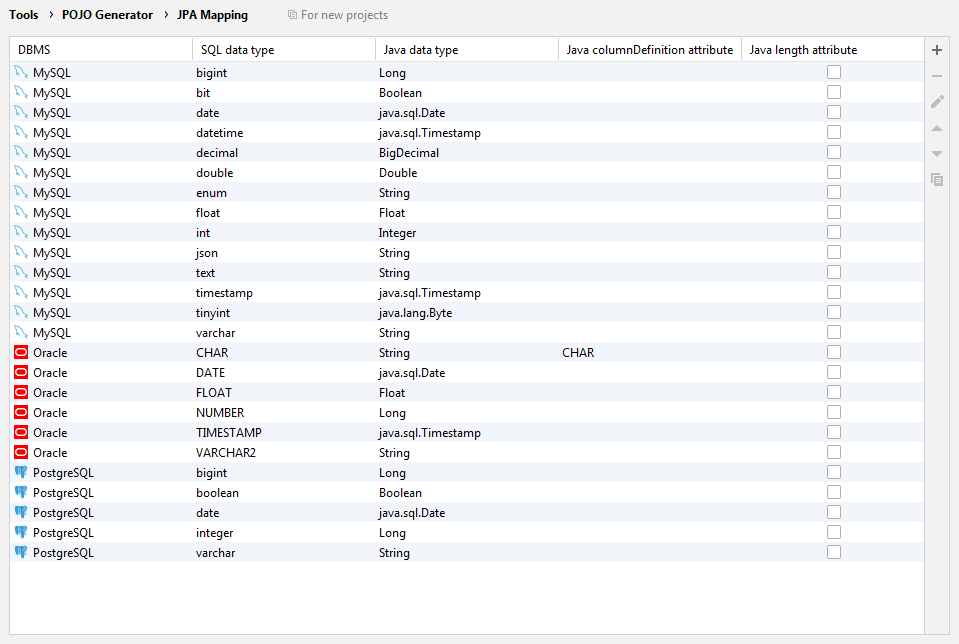
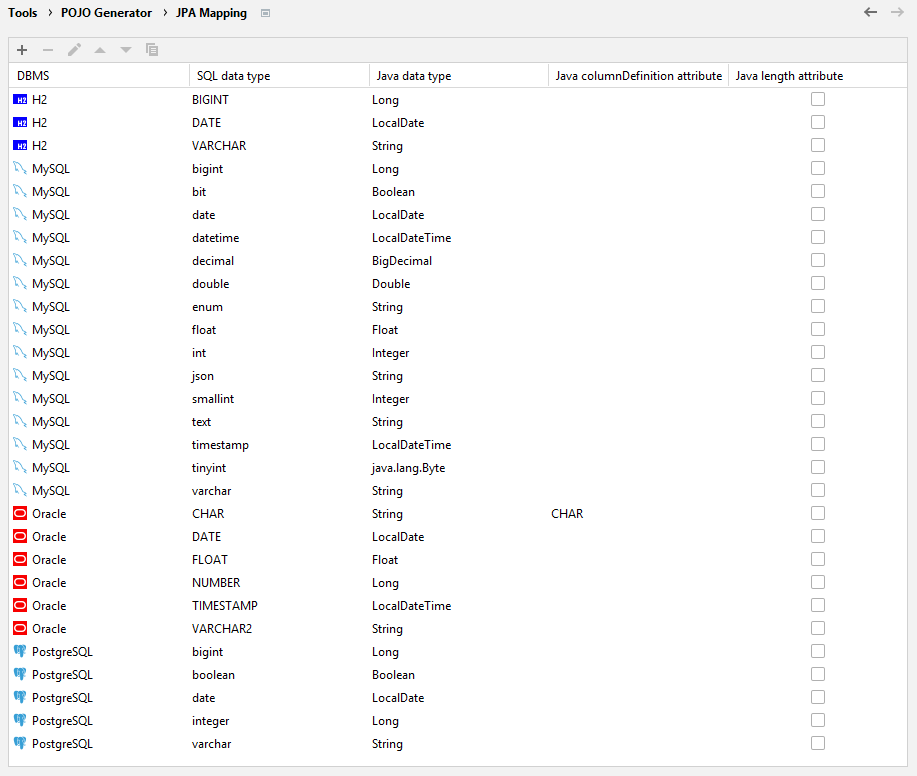
[GitHub] #26: IDEA 2023.1: java.lang.NoClassDefFoundError: com/twelvemonkeys/util/LinkedSet

diff --git a/pojo-generator/src/main/java/fr/jukien/intellij/plugins/util/Util.java b/pojo-generator/src/main/java/fr/jukien/intellij/plugins/util/Util.java
@@ -28,7 +28,6 @@ import com.intellij.psi.PsiFileFactory;
 import com.intellij.psi.codeStyle.NameUtil;
 import com.intellij.psi.impl.file.PsiDirectoryFactory;
 import com.intellij.vcsUtil.VcsUtil;
-import com.twelvemonkeys.util.LinkedSet;
 import fr.jukien.intellij.plugins.ui.ConfigurableJPAMapping;
 import fr.jukien.intellij.plugins.ui.DBMSFamily;
 import fr.jukien.intellij.plugins.ui.JPAMappingSettings;
@@ -36,6 +35,7 @@ import fr.jukien.intellij.plugins.ui.POJOGeneratorSettings;
 import org.jetbrains.annotations.NotNull;
 
 import java.util.HashSet;
+import java.util.LinkedHashSet;
 import java.util.List;
 import java.util.Set;
 
@@ -45,14 +45,14 @@ import static fr.jukien.intellij.plugins.ui.DBMSFamily.POSTGRES;
  * Created on 25/04/2019
  *
  * @author JDI
- * @version 2.3.0
+ * @version 2.4.0
  * @since 1.0.0
  */
 public class Util {
     public static VirtualFile lastChoosedFile;
 
-    public static LinkedSet<Field> getFields(DbTable dbTable, JPAMappingSettings jpaMappingSettings) {
-        LinkedSet<Field> fields = new LinkedSet<>();
+    public static LinkedHashSet<Field> getFields(DbTable dbTable, JPAMappingSettings jpaMappingSettings) {
+        LinkedHashSet<Field> fields = new LinkedHashSet<>();
         List<ConfigurableJPAMapping> jpaMappings = jpaMappingSettings.getJpaMappings();
         for (DasColumn column : DasUtil.getColumns(dbTable)) {
             Field field = new Field();
@@ -64,11 +64,11 @@ public class Util {
             } else {
                 field.setAutoGenerated(DasUtil.isAutoGenerated(column));
             }
-            field.setSQLType(column.getDataType());
+            field.setSQLType(column.getDasType().toDataType());
 
             ConfigurableJPAMapping configurableJPAMapping = jpaMappings.stream()
                     .filter(c -> dbTable.getDataSource().getDatabaseVersion().name.equals(c.getFamily().getName()) &&
-                            column.getDataType().typeName.equals(c.getSqlDataType()))
+                            column.getDasType().toDataType().typeName.equals(c.getSqlDataType()))
                     .findAny()
                     .orElse(null);
 
@@ -76,7 +76,7 @@ public class Util {
                 field.setJavaType(configurableJPAMapping.getJavaDataType());
                 field.setColumnDefinition(configurableJPAMapping.getJavaColumnDefinition());
                 if (null != configurableJPAMapping.isLengthAttributeEnabled() && configurableJPAMapping.isLengthAttributeEnabled()) {
-                    field.setLength(column.getDataType().size);
+                    field.setLength(column.getDasType().toDataType().size);
                 }
             } else {
                 field.setJavaType(null);
@@ -99,7 +99,7 @@ public class Util {
         return fields;
     }
 
-    public static void addConstructor(String className, LinkedSet<Field> fields, StringBuilder javaTextFile) {
+    public static void addConstructor(String className, LinkedHashSet<Field> fields, StringBuilder javaTextFile) {
         StringBuilder fieldsToInitialize = new StringBuilder();
         StringBuilder fieldsToInitializeAssignment = new StringBuilder();
         javaTextFile.append("    public ").append(className).append("(");
@@ -123,7 +123,7 @@ public class Util {
         javaTextFile.append("    }").append("\n");
     }
 
-    public static void addGetterSetter(LinkedSet<Field> fields, StringBuilder javaTextFile) {
+    public static void addGetterSetter(LinkedHashSet<Field> fields, StringBuilder javaTextFile) {
         int index = 0;
         for (Field field : fields) {
             javaTextFile.append("    public ").append(field.getJavaType()).append(" get").append(javaName(field.getName(), true)).append("() {").append("\n");
@@ -243,7 +243,7 @@ public class Util {
 
             WriteCommandAction.runWriteCommandAction(project, r);
         } else if (!pojoGeneratorSettings.getAlwaysShowDifferencesBetweenFiles()) {
-            Notification notification = new Notification("POJO Generator", "POJO Generator", String.format("The file [%s] already exists", fileName), NotificationType.WARNING, null);
+            Notification notification = new Notification("POJO Generator", "POJO Generator", String.format("The file [%s] already exists", fileName), NotificationType.WARNING);
             notification.addAction(NotificationAction.createSimple("Show Diff...", () -> {
                 notification.expire();
 

diff --git a/pojo-generator/src/main/java/fr/jukien/intellij/plugins/action/Entity.java b/pojo-generator/src/main/java/fr/jukien/intellij/plugins/action/Entity.java
@@ -4,7 +4,6 @@ import com.intellij.database.psi.DbTable;
 import com.intellij.openapi.actionSystem.AnAction;
 import com.intellij.openapi.actionSystem.AnActionEvent;
 import com.intellij.openapi.actionSystem.LangDataKeys;
-import com.intellij.openapi.components.ServiceManager;
 import com.intellij.openapi.fileChooser.FileChooser;
 import com.intellij.openapi.fileChooser.FileChooserDescriptor;
 import com.intellij.openapi.fileChooser.FileChooserDescriptorFactory;
@@ -12,7 +11,6 @@ import com.intellij.openapi.project.Project;
 import com.intellij.openapi.vfs.VfsUtil;
 import com.intellij.openapi.vfs.VirtualFile;
 import com.intellij.psi.PsiElement;
-import com.twelvemonkeys.util.LinkedSet;
 import fr.jukien.intellij.plugins.ui.JPAMappingSettings;
 import fr.jukien.intellij.plugins.ui.POJOGeneratorSettings;
 import fr.jukien.intellij.plugins.util.Field;
@@ -23,6 +21,7 @@ import org.jetbrains.annotations.NotNull;
 import java.net.MalformedURLException;
 import java.nio.file.Path;
 import java.nio.file.Paths;
+import java.util.LinkedHashSet;
 
 import static fr.jukien.intellij.plugins.util.Util.*;
 
@@ -30,7 +29,7 @@ import static fr.jukien.intellij.plugins.util.Util.*;
  * Created on 19/04/2019
  *
  * @author JDI
- * @version 2.3.0
+ * @version 2.4.0
  * @since 1.0.0
  */
 public class Entity extends AnAction {
@@ -43,8 +42,8 @@ public class Entity extends AnAction {
             return;
         }
 
-        final POJOGeneratorSettings pojoGeneratorSettings = ServiceManager.getService(project, POJOGeneratorSettings.class);
-        final JPAMappingSettings jpaMappingSettings = ServiceManager.getService(project, JPAMappingSettings.class);
+        final POJOGeneratorSettings pojoGeneratorSettings = project.getService(POJOGeneratorSettings.class);
+        final JPAMappingSettings jpaMappingSettings = project.getService(JPAMappingSettings.class);
 
         PsiElement[] psiElements = anActionEvent.getData(LangDataKeys.PSI_ELEMENT_ARRAY);
         if (psiElements == null || psiElements.length == 0) {
@@ -80,7 +79,7 @@ public class Entity extends AnAction {
                 }
 
                 TableInfo tableInfo = new TableInfo((DbTable) psiElement);
-                LinkedSet<Field> fields = getFields((DbTable) psiElement, jpaMappingSettings);
+                LinkedHashSet<Field> fields = getFields((DbTable) psiElement, jpaMappingSettings);
 
                 String classNameComposite = null;
                 if (isCompositePrimaryKeyAvailable(pojoGeneratorSettings, tableInfo)) {
@@ -100,7 +99,7 @@ public class Entity extends AnAction {
                     }
                     javaTextFile.append("public class ").append(classNameComposite).append(" implements Serializable {").append("\n");
 
-                    LinkedSet<Field> primaryFields = new LinkedSet<>();
+                    LinkedHashSet<Field> primaryFields = new LinkedHashSet<>();
                     int index = 0;
                     for (Field field : fields) {
                         if (field.getPrimary()) {
@@ -135,7 +134,7 @@ public class Entity extends AnAction {
                     }
 
                     javaTextFile.append("\n");
-                    addConstructor(classNameComposite, new LinkedSet<>(), javaTextFile);
+                    addConstructor(classNameComposite, new LinkedHashSet<>(), javaTextFile);
                     javaTextFile.append("\n");
                     addConstructor(classNameComposite, primaryFields, javaTextFile);
                     javaTextFile.append("\n");
@@ -158,7 +157,7 @@ public class Entity extends AnAction {
                     javaTextFile.append("@IdClass(").append(classNameComposite).append(".class)").append("\n");
                 }
                 if (isCompositePrimaryKeyAvailable(pojoGeneratorSettings, tableInfo) && pojoGeneratorSettings.getGenerateCompositePrimaryKeyWithEmbeddedIdAnnotation()) {
-                    LinkedSet<Field> fieldsWithoutPrimary = new LinkedSet<>();
+                    LinkedHashSet<Field> fieldsWithoutPrimary = new LinkedHashSet<>();
 
                     Field field = new Field();
                     field.setEmbeddedId(true);

diff --git a/pojo-generator/src/main/java/fr/jukien/intellij/plugins/ui/JPAMappingSettings.java b/pojo-generator/src/main/java/fr/jukien/intellij/plugins/ui/JPAMappingSettings.java
@@ -16,7 +16,7 @@ import java.util.UUID;
  * Created on 24/08/2019
  *
  * @author JDI
- * @version 2.3.0
+ * @version 2.4.0
  * @since 2.0.0
  */
 @State(
@@ -30,12 +30,12 @@ public class JPAMappingSettings implements PersistentStateComponent<JPAMappingSe
     public static List<ConfigurableJPAMapping> getPredefinedJPAMappings() {
         return Arrays.asList(
                 new ConfigurableJPAMapping(UUID.randomUUID(), DBMSFamily.H2, "BIGINT", "Long"),
-                new ConfigurableJPAMapping(UUID.randomUUID(), DBMSFamily.H2, "DATE", "java.sql.Date"),
+                new ConfigurableJPAMapping(UUID.randomUUID(), DBMSFamily.H2, "DATE", "LocalDate"),
                 new ConfigurableJPAMapping(UUID.randomUUID(), DBMSFamily.H2, "VARCHAR", "String"),
                 new ConfigurableJPAMapping(UUID.randomUUID(), DBMSFamily.MYSQL, "bigint", "Long"),
                 new ConfigurableJPAMapping(UUID.randomUUID(), DBMSFamily.MYSQL, "bit", "Boolean"),
-                new ConfigurableJPAMapping(UUID.randomUUID(), DBMSFamily.MYSQL, "date", "java.sql.Date"),
-                new ConfigurableJPAMapping(UUID.randomUUID(), DBMSFamily.MYSQL, "datetime", "java.sql.Timestamp"),
+                new ConfigurableJPAMapping(UUID.randomUUID(), DBMSFamily.MYSQL, "date", "LocalDate"),
+                new ConfigurableJPAMapping(UUID.randomUUID(), DBMSFamily.MYSQL, "datetime", "LocalDateTime"),
                 new ConfigurableJPAMapping(UUID.randomUUID(), DBMSFamily.MYSQL, "decimal", "BigDecimal"),
                 new ConfigurableJPAMapping(UUID.randomUUID(), DBMSFamily.MYSQL, "double", "Double"),
                 new ConfigurableJPAMapping(UUID.randomUUID(), DBMSFamily.MYSQL, "enum", "String"),
@@ -44,18 +44,18 @@ public class JPAMappingSettings implements PersistentStateComponent<JPAMappingSe
                 new ConfigurableJPAMapping(UUID.randomUUID(), DBMSFamily.MYSQL, "json", "String"),
                 new ConfigurableJPAMapping(UUID.randomUUID(), DBMSFamily.MYSQL, "smallint", "Integer"),
                 new ConfigurableJPAMapping(UUID.randomUUID(), DBMSFamily.MYSQL, "text", "String"),
-                new ConfigurableJPAMapping(UUID.randomUUID(), DBMSFamily.MYSQL, "timestamp", "java.sql.Timestamp"),
+                new ConfigurableJPAMapping(UUID.randomUUID(), DBMSFamily.MYSQL, "timestamp", "LocalDateTime"),
                 new ConfigurableJPAMapping(UUID.randomUUID(), DBMSFamily.MYSQL, "tinyint", "java.lang.Byte"),
                 new ConfigurableJPAMapping(UUID.randomUUID(), DBMSFamily.MYSQL, "varchar", "String"),
                 new ConfigurableJPAMapping(UUID.randomUUID(), DBMSFamily.ORACLE, "CHAR", "String", "CHAR"),
-                new ConfigurableJPAMapping(UUID.randomUUID(), DBMSFamily.ORACLE, "DATE", "java.sql.Date"),
+                new ConfigurableJPAMapping(UUID.randomUUID(), DBMSFamily.ORACLE, "DATE", "LocalDate"),
                 new ConfigurableJPAMapping(UUID.randomUUID(), DBMSFamily.ORACLE, "FLOAT", "Float"),
                 new ConfigurableJPAMapping(UUID.randomUUID(), DBMSFamily.ORACLE, "NUMBER", "Long"),
-                new ConfigurableJPAMapping(UUID.randomUUID(), DBMSFamily.ORACLE, "TIMESTAMP", "java.sql.Timestamp"),
+                new ConfigurableJPAMapping(UUID.randomUUID(), DBMSFamily.ORACLE, "TIMESTAMP", "LocalDateTime"),
                 new ConfigurableJPAMapping(UUID.randomUUID(), DBMSFamily.ORACLE, "VARCHAR2", "String"),
                 new ConfigurableJPAMapping(UUID.randomUUID(), DBMSFamily.POSTGRES, "bigint", "Long"),
                 new ConfigurableJPAMapping(UUID.randomUUID(), DBMSFamily.POSTGRES, "boolean", "Boolean"),
-                new ConfigurableJPAMapping(UUID.randomUUID(), DBMSFamily.POSTGRES, "date", "java.sql.Date"),
+                new ConfigurableJPAMapping(UUID.randomUUID(), DBMSFamily.POSTGRES, "date", "LocalDate"),
                 new ConfigurableJPAMapping(UUID.randomUUID(), DBMSFamily.POSTGRES, "integer", "Long"),
                 new ConfigurableJPAMapping(UUID.randomUUID(), DBMSFamily.POSTGRES, "varchar", "String")
         );

diff --git a/pojo-generator/src/main/java/fr/jukien/intellij/plugins/action/DTO.java b/pojo-generator/src/main/java/fr/jukien/intellij/plugins/action/DTO.java
@@ -4,7 +4,6 @@ import com.intellij.database.psi.DbTable;
 import com.intellij.openapi.actionSystem.AnAction;
 import com.intellij.openapi.actionSystem.AnActionEvent;
 import com.intellij.openapi.actionSystem.LangDataKeys;
-import com.intellij.openapi.components.ServiceManager;
 import com.intellij.openapi.fileChooser.FileChooser;
 import com.intellij.openapi.fileChooser.FileChooserDescriptor;
 import com.intellij.openapi.fileChooser.FileChooserDescriptorFactory;
@@ -12,7 +11,6 @@ import com.intellij.openapi.project.Project;
 import com.intellij.openapi.vfs.VfsUtil;
 import com.intellij.openapi.vfs.VirtualFile;
 import com.intellij.psi.PsiElement;
-import com.twelvemonkeys.util.LinkedSet;
 import fr.jukien.intellij.plugins.ui.JPAMappingSettings;
 import fr.jukien.intellij.plugins.ui.POJOGeneratorSettings;
 import fr.jukien.intellij.plugins.util.Field;
@@ -23,6 +21,7 @@ import org.jetbrains.annotations.NotNull;
 import java.net.MalformedURLException;
 import java.nio.file.Path;
 import java.nio.file.Paths;
+import java.util.LinkedHashSet;
 
 import static fr.jukien.intellij.plugins.util.Util.*;
 
@@ -30,7 +29,7 @@ import static fr.jukien.intellij.plugins.util.Util.*;
  * Created on 25/04/2019
  *
  * @author JDI
- * @version 2.3.0
+ * @version 2.4.0
  * @since 1.0.0
  */
 public class DTO extends AnAction {
@@ -43,8 +42,8 @@ public class DTO extends AnAction {
             return;
         }
 
-        final POJOGeneratorSettings pojoGeneratorSettings = ServiceManager.getService(project, POJOGeneratorSettings.class);
-        final JPAMappingSettings jpaMappingSettings = ServiceManager.getService(project, JPAMappingSettings.class);
+        final POJOGeneratorSettings pojoGeneratorSettings = project.getService(POJOGeneratorSettings.class);
+        final JPAMappingSettings jpaMappingSettings = project.getService(JPAMappingSettings.class);
 
         PsiElement[] psiElements = anActionEvent.getData(LangDataKeys.PSI_ELEMENT_ARRAY);
         if (psiElements == null || psiElements.length == 0) {
@@ -80,7 +79,7 @@ public class DTO extends AnAction {
                 }
 
                 TableInfo tableInfo = new TableInfo((DbTable) psiElement);
-                LinkedSet<Field> fields = getFields((DbTable) psiElement, jpaMappingSettings);
+                LinkedHashSet<Field> fields = getFields((DbTable) psiElement, jpaMappingSettings);
                 String className = String.format("%s%s%s", pojoGeneratorSettings.getPrefixDto(), javaName(tableInfo.getTableName(), true), pojoGeneratorSettings.getSuffixDto());
 
                 StringBuilder javaTextFile = new StringBuilder();

diff --git a/pojo-generator/src/main/java/fr/jukien/intellij/plugins/ui/JPAMappingPanel.java b/pojo-generator/src/main/java/fr/jukien/intellij/plugins/ui/JPAMappingPanel.java
@@ -16,7 +16,7 @@ import java.util.UUID;
  * Created on 24/08/2019
  *
  * @author JDI
- * @version 2.2.0
+ * @version 2.4.0
  * @since 2.0.0
  */
 public class JPAMappingPanel {
@@ -126,11 +126,8 @@ public class JPAMappingPanel {
             }
 
             @Override
-            public void edit(@NotNull ConfigurableJPAMapping browser, @NotNull Function<ConfigurableJPAMapping, ConfigurableJPAMapping> mutator, boolean isAdd) {
-                /*BrowserSpecificSettings settings = cloneSettings(browser);
-                if (settings != null && ShowSettingsUtil.getInstance().editConfigurable(browsersTable, settings.createConfigurable())) {
-                    mutator.fun(browser).setSpecificSettings(settings);
-                }*/
+            public void edit(@NotNull ConfigurableJPAMapping item, @NotNull Function<? super ConfigurableJPAMapping, ? extends ConfigurableJPAMapping> mutator, boolean isAdd) {
+
             }
 
             @Override

diff --git a/pojo-generator/src/main/java/fr/jukien/intellij/plugins/ui/POJOGeneratorConfigurable.java b/pojo-generator/src/main/java/fr/jukien/intellij/plugins/ui/POJOGeneratorConfigurable.java
@@ -1,6 +1,5 @@
 package fr.jukien.intellij.plugins.ui;
 
-import com.intellij.openapi.components.ServiceManager;
 import com.intellij.openapi.options.Configurable;
 import com.intellij.openapi.project.Project;
 import org.jetbrains.annotations.Nls;
@@ -12,7 +11,7 @@ import javax.swing.*;
  * Created on 24/04/2019
  *
  * @author JDI
- * @version 2.3.0
+ * @version 2.4.0
  * @since 1.0.0
  */
 public class POJOGeneratorConfigurable implements Configurable {
@@ -20,7 +19,7 @@ public class POJOGeneratorConfigurable implements Configurable {
     private POJOGeneratorPanel pojoGeneratorPanel;
 
     public POJOGeneratorConfigurable(Project project) {
-        this.pojoGeneratorSettings = ServiceManager.getService(project, POJOGeneratorSettings.class);
+        this.pojoGeneratorSettings = project.getService(POJOGeneratorSettings.class);
     }
 
     @Nls(capitalization = Nls.Capitalization.Title)

diff --git a/pojo-generator/src/main/java/fr/jukien/intellij/plugins/ui/JPAMappingConfigurable.java b/pojo-generator/src/main/java/fr/jukien/intellij/plugins/ui/JPAMappingConfigurable.java
@@ -1,6 +1,5 @@
 package fr.jukien.intellij.plugins.ui;
 
-import com.intellij.openapi.components.ServiceManager;
 import com.intellij.openapi.options.Configurable;
 import com.intellij.openapi.project.Project;
 import org.jetbrains.annotations.Nls;
@@ -12,7 +11,7 @@ import javax.swing.*;
  * Created on 24/08/2019
  *
  * @author JDI
- * @version 2.0.0
+ * @version 2.4.0
  * @since 2.0.0
  */
 public class JPAMappingConfigurable implements Configurable {
@@ -20,7 +19,7 @@ public class JPAMappingConfigurable implements Configurable {
     private JPAMappingPanel jpaMappingPanel;
 
     public JPAMappingConfigurable(Project project) {
-        this.jpaMappingSettings = ServiceManager.getService(project, JPAMappingSettings.class);
+        this.jpaMappingSettings = project.getService(JPAMappingSettings.class);
     }
 
     @Nls(capitalization = Nls.Capitalization.Title)

diff --git a/pojo-generator-install/src/assembly/documentation/note-version.md b/pojo-generator-install/src/assembly/documentation/note-version.md
@@ -2,6 +2,12 @@
 
 ##### Version ${parent.version} - Published on ${timestamp}
 ###### Fixed
+- NoClassDefFoundError with IDEA 2023.1 (GitHub [#26](https://github.com/Jukien/POJO-Generator/issues/26))
+
+***
+
+##### Version 2.3.1 - Published on 12/11/2020
+###### Fixed
 - Compatibility with JBR 8 (GitHub [#22](https://github.com/Jukien/POJO-Generator/issues/22))
 
 ***
